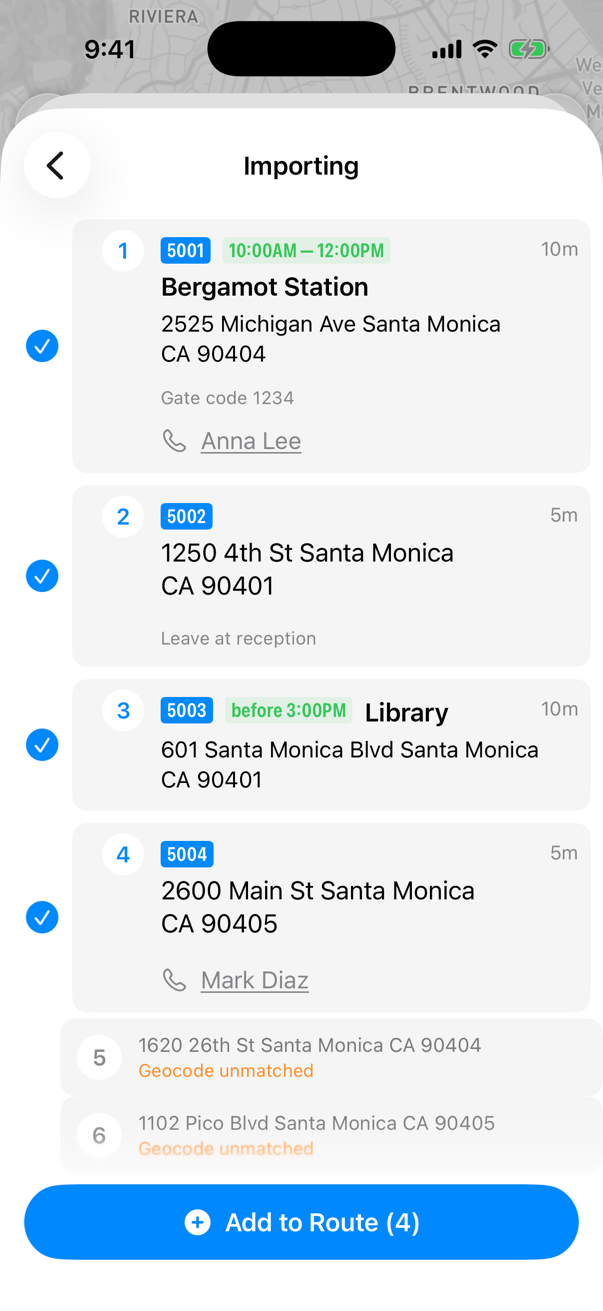
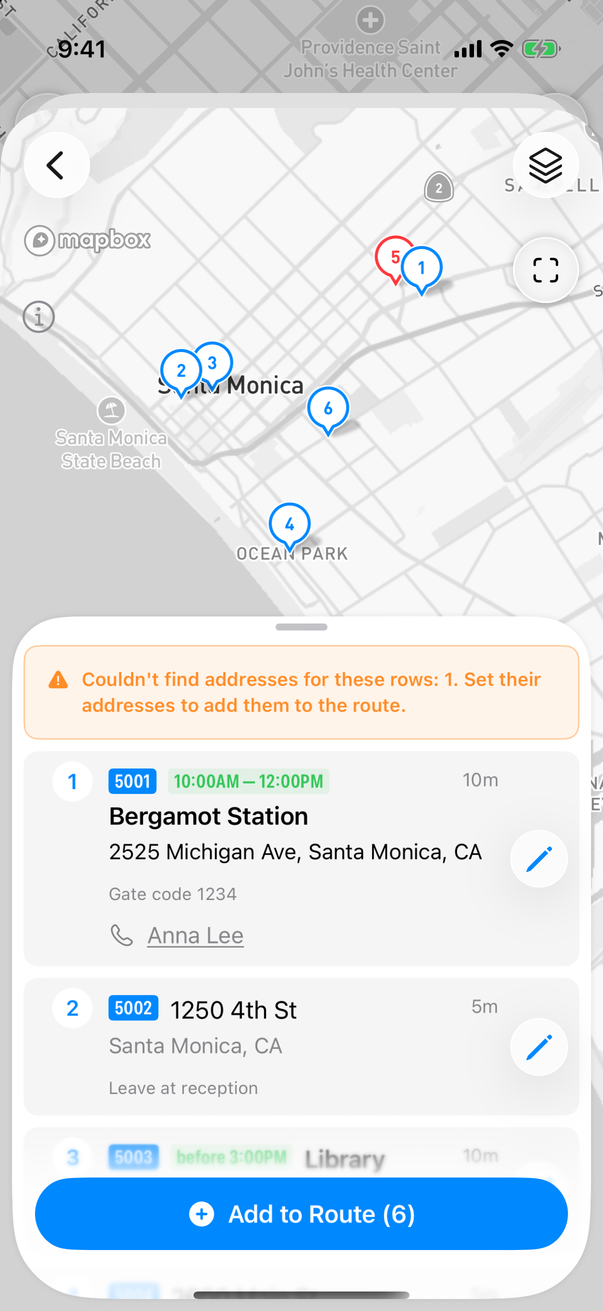
v3: import results on a map, pencil to fix addresses, premises and Change Address under the small map
- File import: results open on a map, rows with "Address Not Found", pencil to set an address, "No stops found in the file."
- Multi-line import and contacts: pencil to choose the right address
- Stop form: chevron on the small map opens premises and Change Address; greyed out for a stop with a status
- Planning header shows total distance and time; "All Stops Completed"; smart insertion of a single stop
- Payment Problem: tap the message at the top of the menu
- New and updated screenshots

diff --git a/guides/how-to-use-myway-route-planner.md b/guides/how-to-use-myway-route-planner.md
@@ -129,7 +129,7 @@ Our users also told us that some apps "build your route anyway" and show you tho
 
 ### Confirm your Route
 
-After you choose the stop order, MyWay shows the **Start Route** button in place of the optimize button. If you're done planning, tap it to start the route. To keep editing, tap the arrow next to **Start Route**. If you change the route (add, delete or move a stop, change a setting), the optimize button also comes back. Tap it again to rebuild the route.
+After you choose the stop order, the route header shows the route's total distance and time instead of its name, and MyWay shows the **Start Route** button in place of the optimize button. If you're done planning, tap it to start the route. To keep editing, tap the arrow next to **Start Route**. If you change the route (add, delete or move a stop, change a setting), the optimize button also comes back. Tap it again to rebuild the route.
 
 When you tap **Start Route**, MyWay recalculates the route using the latest data, including time windows, traffic and other factors.
 
@@ -141,7 +141,7 @@ You can still [change the route order, even after it's built](how-to-use-myway-r
 
 ## Follow Route
 
-After you start the route, the top of the route shows the time and distance left, the end time and how many stops remain. The current stop is highlighted:
+After you start the route, the top of the route shows the time and distance left, the end time and how many stops remain. When no stops are left, it says "All Stops Completed". The current stop is highlighted:
 
 * **Go** opens the stop in your navigation app. Tap **…** next to it to navigate by GPS coordinates or by address, choose another navigation app, or navigate through several stops at once. [Read more about navigation](understand-navigation-settings.md).
 * **Done** completes the stop and makes the next one current. The first time you tap it, MyWay asks if you want to turn on Proof of Delivery. With [Proof of Delivery](proof-of-delivery.md) on, you see **Success** and **Failed** instead of **Done**.
@@ -201,7 +201,7 @@ Tap the arrow next to **Start Route** and make your changes. Then tap the optimi
 
 **After you start the route**
 
-To add one or two stops, tap the magnifier, find the stop and add it. MyWay inserts it next to the closest part of the route. To reorder stops, touch and hold a stop and drag it. Then [update the route](#update-and-actualize-route) to refresh the ETAs.
+To add one or two stops, tap the magnifier, find the stop and add it. MyWay puts it where it adds the least distance to the route: between two stops you haven't visited yet, or after the last one. Stops with the First or Last priority stay at the beginning or the end. To reorder stops, touch and hold a stop and drag it. Then [update the route](#update-and-actualize-route) to refresh the ETAs.
 
 To change a stop's address, for example when the customer asks you to deliver somewhere else, open the stop's details and tap **Change Address** in the **Actions** section at the bottom. You can also do it in the [stop form](understanding-stop-settings.md#location-look-around-and-premises). Choose the new address, and MyWay saves it right away. Until you update the route, the times of this stop and the next ones are approximate ("\~"), and the map shows a dashed line to the stop instead of the road. Tap the optimize button and choose **Update Route** to recalculate the route and ETAs. You can't change the address of a stop that already has a status (Arrived, Success or Failed).
 

diff --git a/guides/understanding-stop-settings.md b/guides/understanding-stop-settings.md
@@ -124,13 +124,17 @@ You can add notes in the stop form, where they're saved automatically like other
 
 The top of the stop form shows the stop on a small map and, where available, a street photo. Tap **Look Around** to see the place before you go.
 
-To change the stop's address, tap the round button to the right of the address on the small map, or tap the map to open it in full screen and tap **Change Address**. Search for the new address or choose it on the map; to use one of your saved places, tap **…** in the empty field and choose **Saved Places**. In full screen you can also add the premises (apartment, suite, unit, floor, etc.).
+Tap the round button with the chevron (›) at the bottom right of the small map. It opens two things under the map: the premises field and **Change Address**. The field is named after the premises type, for example Apartment; to choose another type (Unit, Room, Suite, Office, Mailbox, Penthouse, Building or Other), tap **…** in the field. If the stop already has premises, they're open from the start.
+
+<figure><img src="../.gitbook/assets/stop-settings-location.png" alt="" width="188"><figcaption><p>Premises and Change Address under the small map</p></figcaption></figure>
+
+To change the stop's address, tap **Change Address** (or tap the map to see it in full screen and tap **Change Address** there). Search for the new address or choose it on the map; to use one of your saved places, tap **…** in the empty field and choose **Saved Places**.
 
 You can change the address while you follow the route too. [What happens to the route then](how-to-use-myway-route-planner.md#making-route-changes-after-the-initial-route-is-built)
 
 ### Stops with a status
 
-When a stop has a status (Arrived, Success or Failed), you've already been there. So MyWay doesn't let you change the settings that decide where the stop is in the route: the address, priority, time at stop, time window, and Pickup or Delivery with its linked stops. **Sync from Saved Place** is unavailable too, because it would change some of them. The "Stop Completed" banner at the top of the form reminds you of this.
+When a stop has a status (Arrived, Success or Failed), you've already been there. So MyWay doesn't let you change the settings that decide where the stop is in the route: the address, priority, time at stop, time window, and Pickup or Delivery with its linked stops. **Sync from Saved Place** is unavailable too, because it would change some of them. The "Stop Completed" banner at the top of the form reminds you of this, and **Change Address** under the small map is greyed out.
 
 You can still change the name, tracking ID, color, notes, contact details, premises and package count. To change the other settings, undo the stop first: swipe it to the right and tap **Undo**.
 

diff --git a/guides/import-from-file-and-multi-line-import.md b/guides/import-from-file-and-multi-line-import.md
@@ -20,13 +20,16 @@ If you import a file, make sure it uses the right format: see the [file example]
 2. Type or paste up to 30 addresses, one address per line, and tap **Search**. MyWay tries to recognize each address.
 3. Select the addresses you need (or tap **Select All**) and tap **Add to Route**.
 
-Lines MyWay couldn't recognize can't be selected. Check the address and try again, or add that stop with the regular search.
+If MyWay found the wrong place for a line, or couldn't recognize the address, tap the pencil on the right of the line and choose the address yourself. The line then gets this address and is selected.
 
 ### Import from file
 
 1. Tap **Import**, then **Select File** and choose an .XLSX or .CSV file (up to 5 MB) on your iPhone. To use a file on the internet, tap **Web Link** instead and paste a link to an .XLSX or .CSV file.
-2. Wait while MyWay processes the file. It then shows the recognized stops with their details (tracking ID, time window, time at stop, contact, notes). Rows MyWay couldn't find on the map are marked "Geocode unmatched" and can't be added.
-3. Tap **Add to Route** to add the selected stops.
+2. Wait while MyWay processes the file. The results open on a map: each row of the file is a numbered pin, and the list of stops with their details (tracking ID, time window, time at stop, contact, notes) is in a panel over the map. Drag the panel up or down. Tap a pin to find its row in the list, or tap a row to see it on the map.
+3. Check the list. To remove a row you don't need, swipe it to the left. To change a row's address, tap the pencil on the right of the row and choose the address. Rows whose address MyWay couldn't find are marked "Address Not Found", and a note at the top of the list says how many there are: set their address with the pencil to add them too.
+4. Tap **Add to Route**. MyWay adds every row that has an address.
+
+If MyWay finds no stops in the file, it shows "No stops found in the file." Compare your file with the [file example](#import-from-file-file-example).
 
 To see how the import file should look, download the file example ([example.xlsx](import-from-file-and-multi-line-import.md#import-from-file-file-example)). The order of columns doesn't matter: MyWay recognizes the columns by their titles and validates the data. If something doesn't go as expected, compare your file with the example to see the data formats we use.
 

diff --git a/faq/error-messages.md b/faq/error-messages.md
@@ -63,7 +63,8 @@ Find your message by its text (use your browser's search or the search on this s
 | "Couldn't process the file. Try again." | The file couldn't be read. | Check the [file format](../guides/import-from-file-and-multi-line-import.md#import-from-file-file-example) and try again. |
 | "Processing the file is taking too long. Try again later." | Processing didn't finish in time. | Try again later or split the file. |
 | "Processing the file was cancelled on the server." | Processing was stopped on our side. | Import the file again. |
-| "Geocode unmatched" on a row | MyWay couldn't find this row's address. | Fix the address in the file, or add the stop with the regular search. |
+| "Address Not Found" on a row, "Couldn't find addresses for these rows: …" | MyWay couldn't find the address of these rows, so they won't be added. | Tap the pencil on the row and set the address, or fix the address in the file. |
+| "No stops found in the file." | MyWay didn't find any stops in the file. | Compare your file with the [file example](../guides/import-from-file-and-multi-line-import.md#import-from-file-file-example). |
 | "To import stops from the file, save or discard your changes first." | You opened a file while editing something. | Save or discard your changes, then open the file again. |
 
 ## Shared route links
@@ -104,7 +105,7 @@ Find your message by its text (use your browser's search or the search on this s
 | "Couldn't load subscription plans" | MyWay couldn't load the plans. | Check your internet connection and open the screen again. |
 | "Purchase is awaiting approval" | Ask to Buy: your family organizer needs to approve the purchase. | Wait for approval. |
 | "No purchases to restore" | This Apple ID has no active MyWay subscription, or there's no connection. | See [MyWay does not recognize my subscription](../subscription-management/myway-does-not-recognize-my-subscription.md). |
-| "Payment Problem" | Apple couldn't charge your payment method. | Tap **Manage Subscription** and [update your payment method](../subscription-management/how-to-change-or-add-a-payment-method.md). |
+| "Payment Problem" | Apple couldn't charge your payment method. | Tap this message at the top of the menu and [update your payment method](../subscription-management/how-to-change-or-add-a-payment-method.md). |
 
 ## Live Activity and photos
 

diff --git a/guides/managing-your-contacts-and-places.md b/guides/managing-your-contacts-and-places.md
@@ -20,6 +20,8 @@ Contacts let you add addresses from your iPhone address book. If you give MyWay 
 
 Select one or several contacts and tap **Add to Route**. MyWay finds each contact's address and adds it as a stop. The contact details are saved in the stop's Contact section.
 
+If MyWay found the wrong place for a contact, tap the pencil on the right of the contact and choose the right address. It replaces the one MyWay found.
+
 <div>
 
 <figure><img src="../.gitbook/assets/contacts-list.png" alt="" width="188"><figcaption></figcaption></figure>
@@ -41,7 +43,7 @@ Places work in a similar way, but there is much more in them than in Contacts. T
 First, build your list of places: open the menu (☰, top right) and tap **Places**. In Saved Places you can:
 
 * create a new place: tap **+** (or **Add Place**);
-* import places from your address book: tap **Import from Contacts**, select the contacts and tap **Add**. MyWay shows the address it found under each contact name, so you can check it before adding. The contact details are saved in the place's Contact section.
+* import places from your address book: tap **Import from Contacts**, select the contacts and tap **Add**. MyWay shows the address it found under each contact name, so you can check it before adding; to change it, tap the pencil next to the contact. The contact details are saved in the place's Contact section.
 
 <div><figure><img src="../.gitbook/assets/app-menu.png" alt="" width="188"><figcaption><p>Menu</p></figcaption></figure> <figure><img src="../.gitbook/assets/places-list.png" alt="" width="188"><figcaption><p>Saved Places</p></figcaption></figure> <figure><img src="../.gitbook/assets/places-import-contacts.png" alt="" width="188"><figcaption><p>Import from Contacts</p></figcaption></figure></div>
 

diff --git a/subscription-management/how-to-change-or-add-a-payment-method.md b/subscription-management/how-to-change-or-add-a-payment-method.md
@@ -30,5 +30,5 @@ More details are in the [Apple Support article](https://support.apple.com/en-us/
 6. Follow the on-screen instructions to update your payment method.
 
 {% hint style="info" %}
-If Apple can't charge your payment method for the subscription, MyWay shows "Payment Problem" in the menu. Tap **Manage Subscription** there and update your payment method before the date shown, so you don't lose Premium.
+If Apple can't charge your payment method for the subscription, MyWay shows "Payment Problem" at the top of the menu. Tap it to open your subscription settings and update your payment method before the date shown, so you don't lose Premium.
 {% endhint %}

diff --git a/guides/managing-your-routes.md b/guides/managing-your-routes.md
@@ -12,7 +12,7 @@ MyWay Route Planner lets you create as many routes as you want. All routes are s
 
 ## How to create a new route?
 
-Tap **…** in the route header (next to the route name) and choose **New Route**, or tap **+** in the Routes list.
+Tap **…** in the route header and choose **New Route**, or tap **+** in the Routes list.
 
 <figure><img src="../.gitbook/assets/routes-route-menu.png" alt="" width="188"><figcaption><p>Route menu on the main screen</p></figcaption></figure>
 
